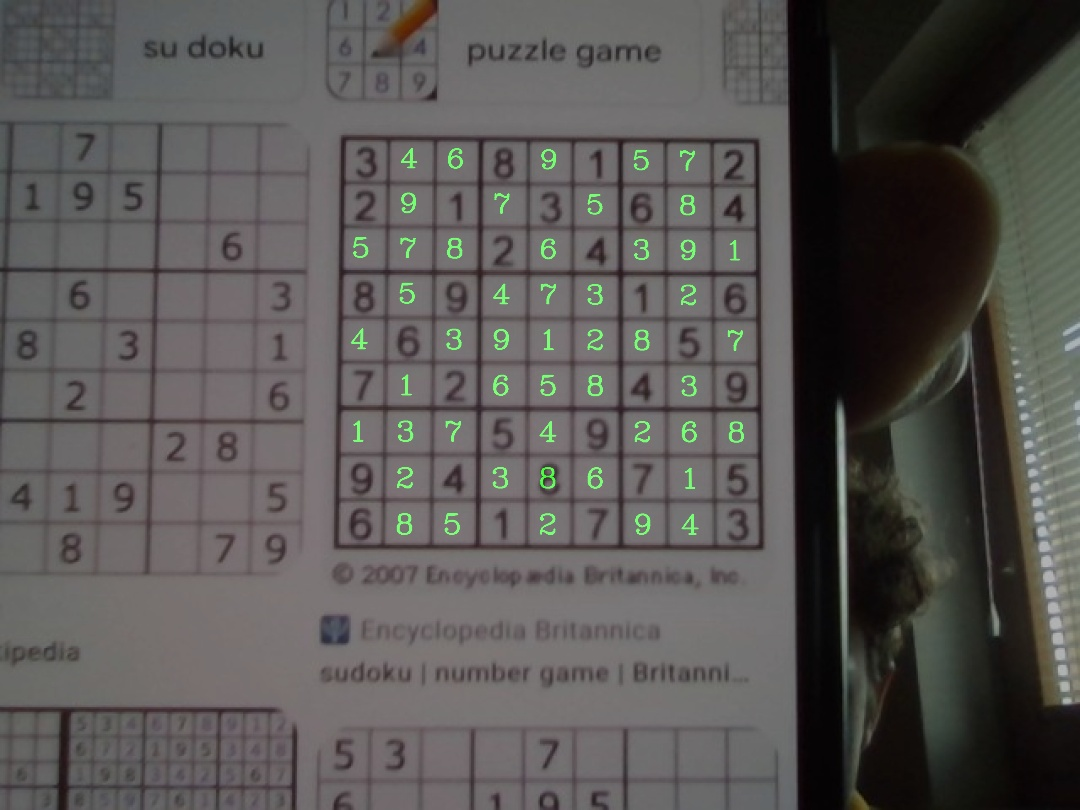
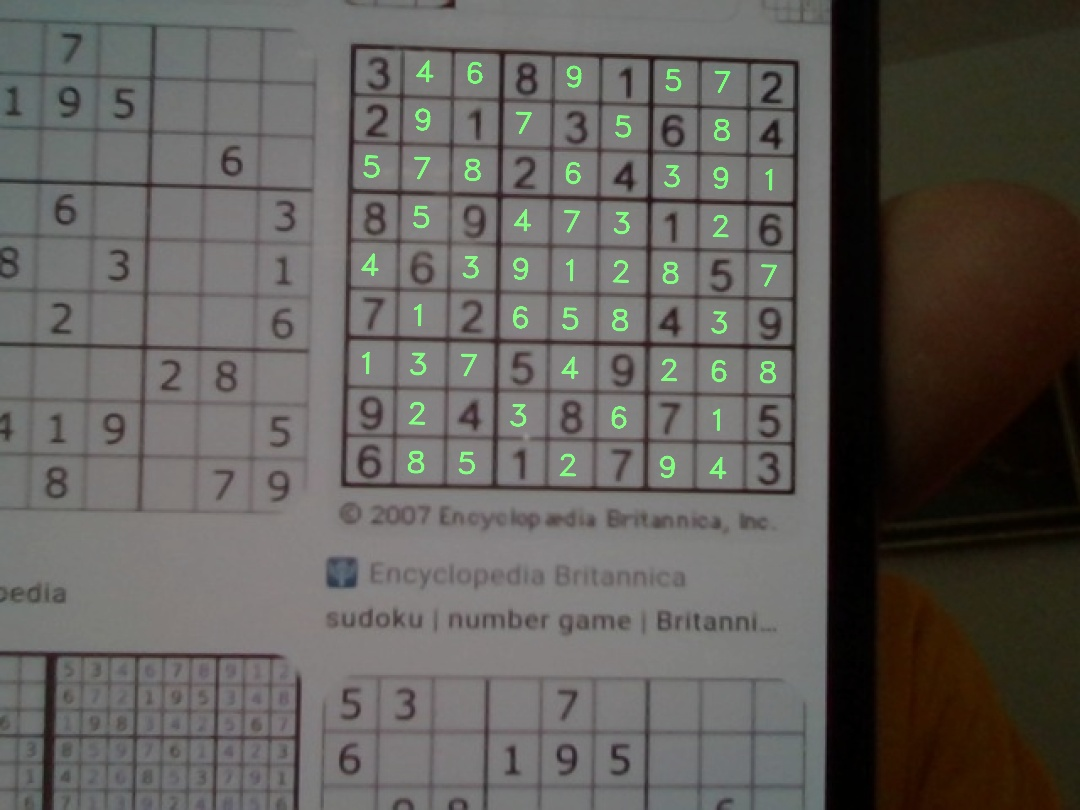
comments

diff --git a/sudoku_app/sudoku_image_recognition.py b/sudoku_app/sudoku_image_recognition.py
@@ -29,7 +29,7 @@ def find_board(img):
     # Finds the biggest rectangular contour
     for contour in contours:
         perimeter = cv2.arcLength(contour, True)
-        approx = cv2.approxPolyDP(contour,perimeter * 0.04 , True)
+        approx = cv2.approxPolyDP(contour, perimeter * 0.04, True)
         if len(approx) == 4:
             location = approx
             break
@@ -80,7 +80,7 @@ def displayNumbers(img, numbers, color=(0, 255, 0)):
     for i in range (9):
         for j in range (9):
             if numbers[(j*9)+i] !=0:
-                cv2.putText(img, str(numbers[(j*9)+i]), (i*W+int(W/2)-int((W/4)), int((j+0.7)*H)), cv2.FONT_HERSHEY_COMPLEX, 2, color, 2, cv2.LINE_AA)
+                cv2.putText(img, str(numbers[(j*9)+i]), (i*W+int(W/2)-int((W/4)), int((j+0.7)*H)), cv2.FONT_HERSHEY_DUPLEX, 2, color, 2, cv2.LINE_AA)
     return img
 
 
@@ -88,15 +88,11 @@ def solve_from_image_and_display(image_path, output_path):
     try:
         img = cv2.imread(image_path)
         img = imutils.resize(img, width=1080)
-        # cv2.imshow('kazi', img)
-        # cv2.waitKey()
         # extract board from input image
         board, location = find_board(img)
         gray = cv2.cvtColor(board, cv2.COLOR_BGR2GRAY)
-        # print(gray.shape)
         rois = split_boxes(gray)
         rois = np.array(rois, np.float32).reshape(81, -1, input_size, input_size, 1)
-        #print(rois)
         # get prediction
         prediction = [model.pred(i) for i in rois]
         # print(prediction)

diff --git a/sudoku_app/main.py b/sudoku_app/main.py
@@ -43,8 +43,7 @@ class Sudoku(App):
         self.preview.disconnect_camera()
 
     @mainthread
-    def my_method(self, path):
-        print('neki')
+    def process_image(self, path):
         solve_from_image_and_display(os.path.join(os.getcwd(), 'picture_temp/photo.jpg'), os.path.join(os.getcwd(), 'picture_temp/solved.jpg'))
         self.image = Image(source=os.path.join(os.getcwd(), 'picture_temp/solved.jpg'), nocache=True)
         self.layout.clear_widgets()
@@ -57,7 +56,7 @@ class Sudoku(App):
     def build(self):
         self.layout = BoxLayout(orientation='vertical')
         self.preview = Preview()
-        self.preview.connect_camera(enable_analyze_pixels = True, filepath_callback=self.my_method)
+        self.preview.connect_camera(enable_analyze_pixels = True, filepath_callback=self.process_image)
         self.layout.add_widget(self.preview)
         self.take_photo_button = Button(text="Take Photo")
         self.take_photo_button.bind(on_press=self.take_photo)
@@ -67,7 +66,7 @@ class Sudoku(App):
 
 
     def take_photo(self, *args):
-        #captures photo and calls mymethod on completion
+        #captures photo and calls process_image on completion
         if platform == 'android':
             from android.storage import app_storage_path
             self.preview.capture_photo(location='', subdir = 'picture_temp', name = 'photo.jpg')

diff --git a/sudoku_app/sudoku_solver.py b/sudoku_app/sudoku_solver.py
@@ -39,7 +39,7 @@ def is_valid_board(t):
 
 
 def solve(t):
-    print('solving started')
+    print('Solving started')
 
     if not is_valid_board(t):
         print('Not valid board')
@@ -66,8 +66,8 @@ def solve(t):
             return False
 
     if backtrack([(i, j) for i in range(9) for j in range(9) if t[i][j] == 0]):
-        print('done-s')
+        print('Done-s')
         return t
     else:
         return False
-        print('done-f')
+        print('Done-f')
